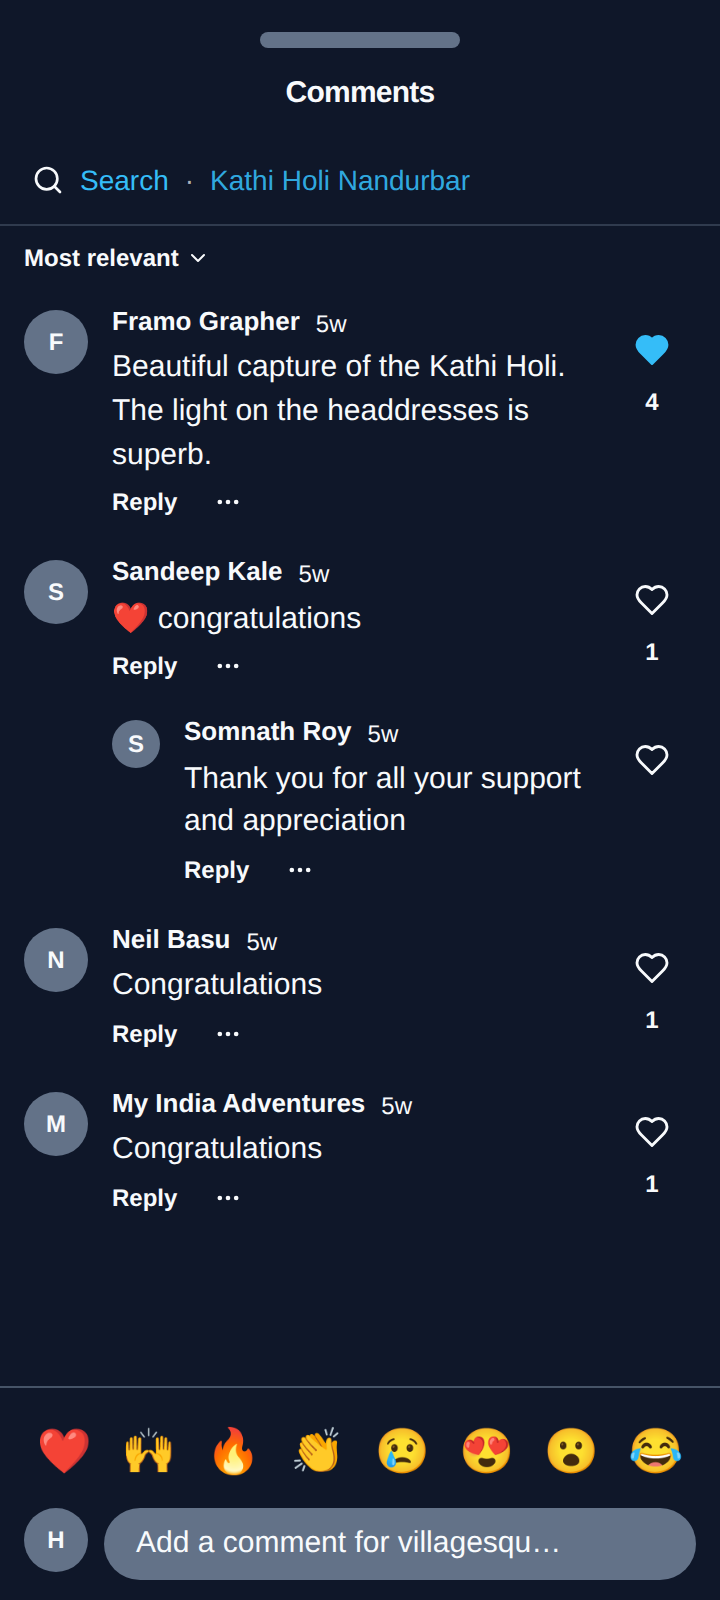
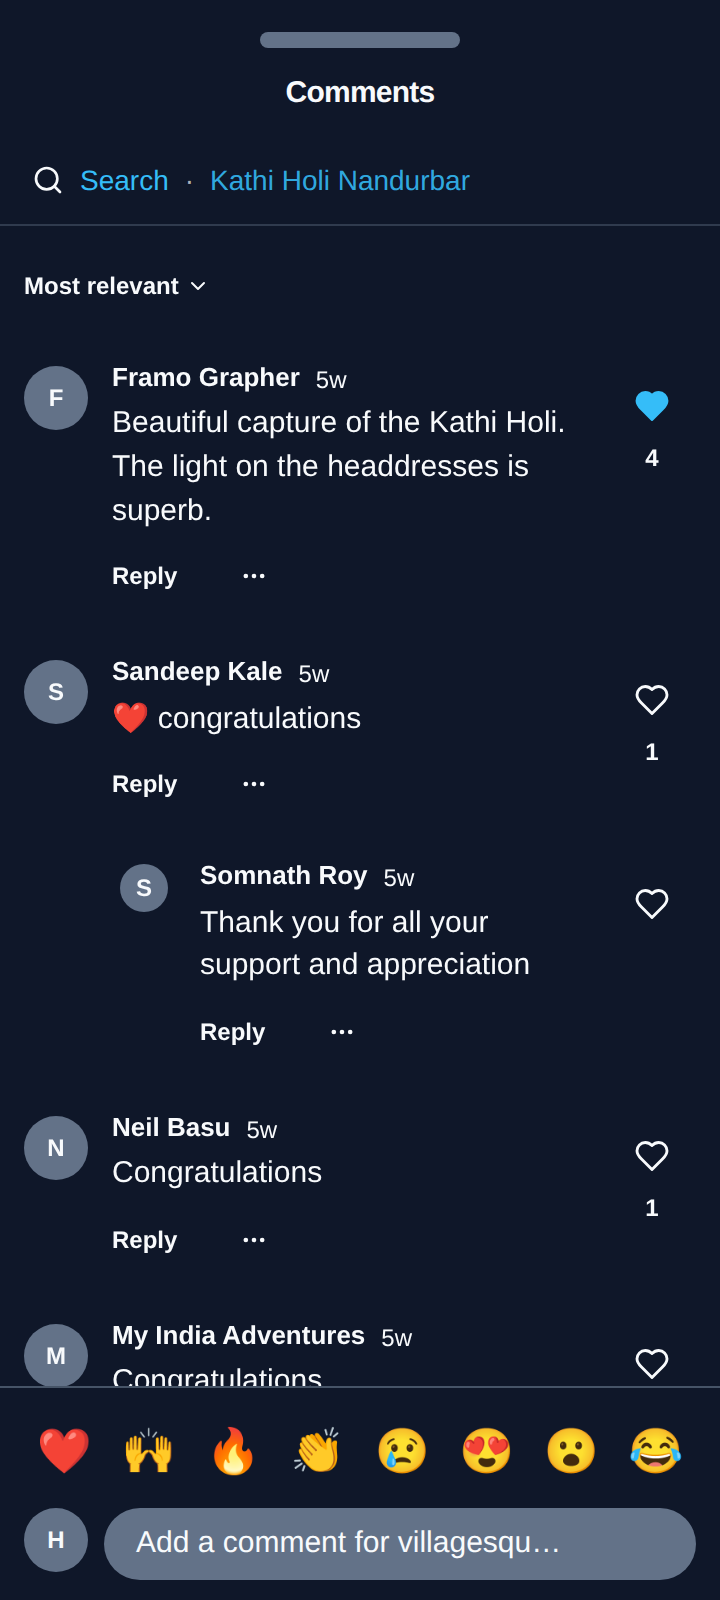
Comment row controls meet the tap floor — and the instrument that checks them
Reply (33x16), the overflow menu (18x18), the sort selector and a reply avatar
sit under the gate's floor. They are not new — identical geometry on staging —
but this unit is the first thing to photograph the comments panel, and
capture.mjs counts a new scene's tap-target errors toward its exit code even
though it skips new scenes in the baseline diff. Measuring them made them ours.

THE FIRST ANSWER WAS WRONG AND WOULD HAVE SHIPPED GREEN.

`.tap-44-down` was chosen from half a measurement. elementFromPoint 8px above
each control returns the comment body — text full of @mention links — so a
symmetric `.tap-44` was correctly ruled out by F-109. The other direction was
never checked, and `.tap-44-down` grows 44px DOWNWARD while Reply is the last
thing in its row. The sweep passed it: capture.mjs measures size and never
overlap.

What caught it was fixing the diagnostic first. tap-target-geometry.mjs judged
everything on getBoundingClientRect(), and its own header claimed that was "the
box the GATE reads, and the only one it can read" — which stopped being true at
F-103, where capture.mjs learned to read the ::after region. The two
instruments disagreed and this one was the stale half (Standing Rule 21). Two
faults fixed:

  1. it measures the HIT region now (painted ∪ ::after, anchored per utility —
     .tap-44 centres, .tap-44-down pins to the top);
  2. its self-clash check counted only boxes stacked vertically at the same
[…]

diff --git a/src/components/comments/CommentThread.tsx b/src/components/comments/CommentThread.tsx
@@ -387,7 +387,7 @@ const CommentThread = ({
       // comment is deleted mid-list.
       <div key={comment.id} className={depth > 0 ? "ml-11" : ""}>
         <div className="flex gap-3 group/comment py-2">
-          <ProfileLink userId={comment.user_id} handle={comment.author_handle} className="shrink-0 mt-0.5">
+          <ProfileLink userId={comment.user_id} handle={comment.author_handle} className="shrink-0 mt-0.5 flex min-w-8 justify-center">
             <Avatar src={comment.author_avatar} name={comment.author_name} size={depth > 0 ? "xs" : "sm"} lastActiveAt={comment.author_last_active} />
           </ProfileLink>
           <div className="flex-1 min-w-0">
@@ -502,11 +502,52 @@ const CommentThread = ({
                   <RichContentRenderer content={comment.content} />
                 </p>
 
+                {/*
+                  ⚠ REAL 44px CONTROLS. `.tap-44-down` WAS TRIED HERE AND
+                  MEASURED WRONG — THIS IS THE SECOND ANSWER, NOT THE FIRST.
+
+                  Reply and the overflow menu paint 33x16 and 18x18, under the
+                  gate's floor (long >= 44, short >= 32). They are not new:
+                  they carry the same geometry on staging. This unit is the
+                  first thing to PHOTOGRAPH the comments panel, and capture.mjs
+                  counts a new scene's tap-target errors toward its exit code,
+                  so measuring them made them ours to clear.
+
+                  THE FIRST ATTEMPT WAS `.tap-44-down`, and it was chosen from a
+                  half-measurement. elementFromPoint 8px above each control
+                  returns the comment body — text full of @mention LINKS — so a
+                  symmetric `.tap-44` was correctly ruled out by F-109. What was
+                  NOT checked was the other direction, and `.tap-44-down` grows
+                  44px DOWNWARD from the control's top while Reply is the LAST
+                  thing in its row. Measured once tap-target-geometry.mjs was
+                  taught to read hit regions instead of painted boxes:
+
+                    OVERLAP with "Framo Grapher" over 49.4x12.0
+                    OVERLAP with "Somnath Roy"   over 43.7x10.0
+                    two hit regions intersect    over 32.0x10.0, 32.0x9.0
+
+                  The region reached into the NEXT comment's author-name link —
+                  F-109 again, one direction over. And the sweep still passed it,
+                  because capture.mjs measures SIZE and never overlap: it would
+                  have shipped green.
+
+                  A real box cannot do this. `h-11` reserves its 44px in the
+                  row, so nothing can be taken from a neighbour — the same
+                  conclusion TodaysBirthdayStrip reached on 2026-09-07, where
+                  `h-11 w-11` replaced a `.tap-44` that "satisfied a thumb and
+                  was invisible to the instrument". Reply needs only the HEIGHT
+                  (32.7px wide already clears the 32px short side); the menu
+                  needs both axes. The cost is an action row 44px tall instead
+                  of 16px, and that cost is the honest price of the fix.
+
+                  `gap-4` is back: the widened gap existed solely to keep two
+                  invisible regions from colliding, and there are none now.
+                */}
                 {/* Action row. The timestamp moved UP to the identity line and
                     Like moved OUT to the heart rail on the right, so what is
                     left here is Reply and the overflow menu — and the row no
                     longer competes with the comment text for attention. */}
-                <div className="mt-1 flex items-center gap-4">
+                <div className="flex items-center gap-4">
                   {currentUserId && depth < maxReplyDepth && (
                     <button
                       onClick={() => {
@@ -519,7 +560,7 @@ const CommentThread = ({
                           setReplyInput("");
                         }
                       }}
-                      className="text-xs font-semibold text-muted-foreground transition-colors hover:text-foreground"
+                      className="flex h-11 items-center text-xs font-semibold text-muted-foreground transition-colors hover:text-foreground"
                     >
                       Reply
                     </button>
@@ -531,7 +572,7 @@ const CommentThread = ({
                       <DropdownMenuTrigger asChild>
                         <button
                           aria-label="Comment options"
-                          className="rounded p-0.5 opacity-0 transition-opacity hover:bg-muted focus-visible:opacity-100 group-hover/comment:opacity-100 md:opacity-0 max-md:opacity-100"
+                          className="flex h-11 w-11 items-center justify-center rounded opacity-0 transition-opacity hover:bg-muted focus-visible:opacity-100 group-hover/comment:opacity-100 md:opacity-0 max-md:opacity-100"
                         >
                           <MoreHorizontal className="h-3.5 w-3.5 text-muted-foreground" />
                         </button>
@@ -772,7 +813,7 @@ const CommentThread = ({
         <div className="flex items-center gap-1 mb-2">
           <DropdownMenu>
             <DropdownMenuTrigger asChild>
-              <button className="text-xs font-semibold text-muted-foreground hover:text-foreground flex items-center gap-1">
+              <button className="flex h-11 items-center gap-1 text-xs font-semibold text-muted-foreground hover:text-foreground">
                 {sortMode === "relevant" ? "Most relevant" : "Newest first"}
                 <ChevronDown className="h-3 w-3" />
               </button>

diff --git a/docs/evidence/d2/comments-sheet-redesign/README.md b/docs/evidence/d2/comments-sheet-redesign/README.md
@@ -76,35 +76,87 @@ would have found this: jsdom does not lay text out.
 
 ---
 
-## Tap targets
+## Tap targets — and a wrong answer corrected before it shipped
 
-`tools/uishot`'s own sweep, same scene, same viewport:
+`tools/uishot`'s sweep, same scene, same viewport:
 
 | | flagged under 44px |
 |---|---|
-| before (`comments-panel-thread-only` on `origin/staging`) | **17** — including the `▾` reaction caret at **6×17** and the "Like" word at 24×16 |
+| before (`comments-panel-thread-only` on `origin/staging`) | **17** — including the `▾` reaction caret at **6×17** |
 | after, first capture | 17 — the new heart measured **32×32**, under the floor |
-| after, current | **12** |
+| after, heart fixed | 12 |
+| **after, final** | **0** |
 
-The heart was fixed to a real **44×44 button with the 32px circle drawn on a
-span inside it**, rather than by adding the app's `.tap-44` region. F-109
-(recorded in `src/index.css`) is why: a symmetric region next to text took 27%
-of a photographer's name in the lightbox. A button that genuinely occupies its
-space cannot take a pixel from anything.
+These controls are not new — `Reply`, the overflow menu, the sort selector and
+the reply avatar carry identical geometry on `staging`. This unit is the first
+thing to PHOTOGRAPH the comments panel, and `capture.mjs` counts a new scene's
+tap-target errors toward its exit code (`process.exit(problems > 0 ? 1 : 0)`)
+even though it skips new scenes in the baseline diff. Measuring them made them
+ours to clear.
 
-**The remaining 12 are pre-existing and are NOT this unit's work** — they carry
-the same geometry on `staging`:
+### The first answer was wrong, and the instrument was wrong about it
 
-- sort selector `93×16`
-- `Reply` `33×16` (×4 rows)
-- overflow menu `18×18` (×4 rows)
-- avatar `ProfileLink` `24×84` (24 wide)
+`.tap-44-down` was chosen from a half-measurement. `elementFromPoint` 8px above
+each control returns the comment body — text `RichContentRenderer` fills with
+@mention links — so a symmetric `.tap-44` was correctly ruled out by F-109. The
+other direction was not checked, and `.tap-44-down` grows 44px **downward**
+while `Reply` is the last thing in its row.
 
-Raised for the Auditor rather than absorbed here. Fixing them means choosing
-between `.tap-44` and `.tap-44-down` per control, and F-109 says that choice is
-a measurement, not a preference.
+It passed the sweep. `capture.mjs` measures SIZE and never overlap, so it would
+have shipped green. What caught it was fixing `tap-target-geometry.mjs` first:
 
----
+```
+OVERLAP with "Framo Grapher" over 49.4x12.0
+OVERLAP with "Somnath Roy"   over 43.7x10.0
+two hit regions intersect    over 32.0x10.0, 32.0x9.0
+```
+
+The enlarged region reached into the **next comment's author-name link** —
+F-109 happening again, one direction over.
+
+### Two instrument faults, both fixed here
+
+`tap-target-geometry.mjs` judged everything on `getBoundingClientRect()`, and
+its header claimed that was "the box the GATE reads, and the only one it can
+read". **That stopped being true at F-103**: `capture.mjs:429-435` reads the
+`::after` min-width/min-height and counts it as the hit region. The two
+instruments disagreed and this one was the stale half — Standing Rule 21.
+
+1. It now measures the **hit region** (painted ∪ `::after`, anchored per
+   utility: `.tap-44` centres, `.tap-44-down` pins to the top).
+2. Its self-clash check counted only boxes **stacked vertically at the same
+   `left`** — which could never see two controls side by side growing toward
+   each other across a flex gap, the exact case the comment row presents. It is
+   now a true pairwise intersection in both axes.
+
+### The fix that shipped
+
+Real `h-11` controls. A real box **reserves** its space, so it cannot take a
+pixel from a neighbour — the same conclusion `TodaysBirthdayStrip` reached on
+2026-09-07, where `h-11 w-11` replaced a `.tap-44` that "satisfied a thumb and
+was invisible to the instrument". `Reply` needs only the height (32.7px wide
+already clears the 32px short side); the menu needs both axes; the reply avatar
+link gets a 32px minimum, leaving the picture untouched.
+
+**The cost is real and was accepted knowingly:** the action row goes from 16px
+to 44px, so a comment is ~28px taller and roughly four fit a 360px screen where
+five did. `gap-6` was reverted to `gap-4` — the widened gap existed only to keep
+two invisible regions apart, and there are none now.
+
+Final state, measured:
+
+```
+sweep     8 screenshots, 0 problem(s) reported
+geometry  PASS every painted box clears the gate's floor
+          PASS no box overlaps a neighbouring link (0)
+          PASS no two hit regions intersect each other (0)
+```
+
+The two remaining `tap-target-geometry.mjs` failures — "birthday-strip avatar
+link: the controls rendered" and "/discover row buttons: the controls rendered"
+— are `count == 0`: those scenes need data a placeholder Supabase env cannot
+supply locally. Verified pre-existing by running the **committed** version of
+the tool, which fails both identically.
 
 ## Tests
 
@@ -142,6 +194,30 @@ area (`securityDefinerGrants`, `newTableGrants`, `pushCatalogParity`,
 `PreviewA11yFourItems` asserts a `rolling`/`setRolling` state in
 `PostCommentsSection` that the component has not had since it became a
 two-band layout; it is stale on `staging` and is stale here.
+
+### The UI gate on this PR
+
+`Every control reachable, nothing regressed` is red, and **18 of its 24
+problems are not this PR's**. The same check is already red on `staging` at
+`7a64cea` — the exact commit this branch is cut from (runs
+[#524](https://github.com/altisinfonet/lens-lustre-learn-Claude/actions/runs/34700818601)
+and [#525](https://github.com/altisinfonet/lens-lustre-learn-Claude/actions/runs/34700820312))
+— with an identical failure list. Staging uploaded 192 screenshots, this PR 200;
+the 8 extra are this PR's two new scenes.
+
+Root cause of those 18: a **stale baseline**. `TodaysBirthdayStrip.tsx` records
+in its own header, dated 2026-09-07, that its avatar link was deliberately
+changed from `.tap-44` to a real `h-11 w-11` box; the anchor is now
+`a.shrink-0.grid` and `baseline.json` still names `a.shrink-0.tap-44`. The
+control got BETTER and the diff reads the selector change as "gone".
+
+Proposed fix, deliberately not made here: re-record `tools/uishot/baseline.json`
+(`--baseline-write`, as capture.mjs prescribes) in its own unit off `staging` —
+a baseline must be written from a run confirmed correct, not from whichever
+branch reached it first. Raised for the Auditor.
+
+The other 6 were this PR's and are fixed above; the sweep now reports 0 on
+these scenes.
 
 `npm run typecheck` (`tsc -b tsconfig.json`, both projects) passes.
 `eslint` on the ten touched files: **0 errors**, 10 warnings, all pre-existing
